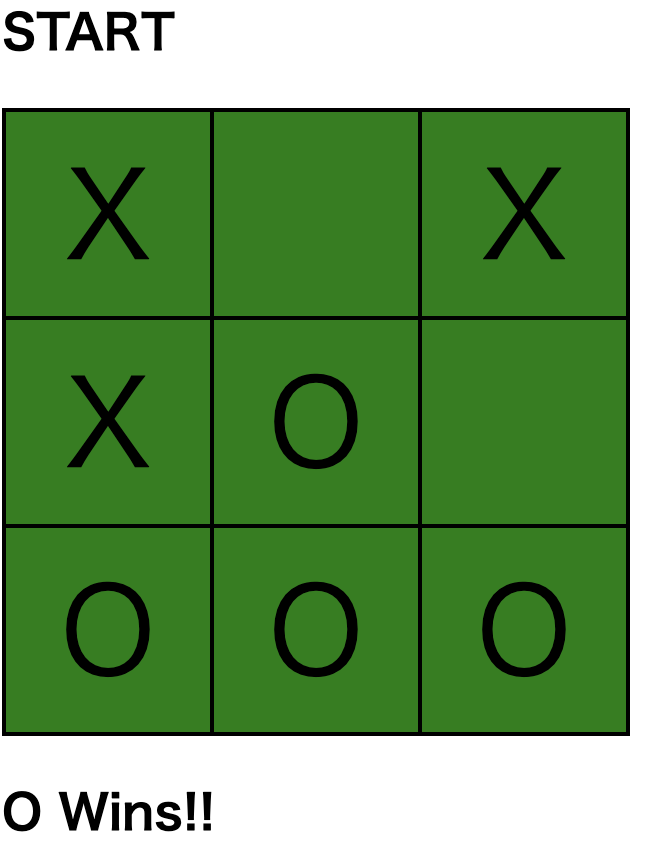
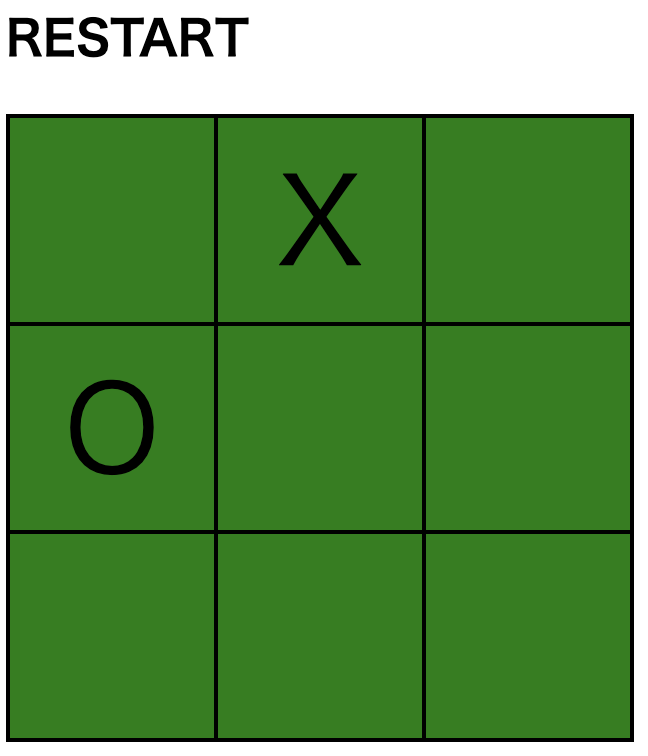
tictactoeをrestart形式に変更

Changed region(s): [[0.0, 0.1217, 0.9877, 1.0], [0.0, 0.0, 0.4012, 0.0913], [0.1852, 0.2738, 0.216, 0.3042]]

diff --git a/app/javascript/tictactoe.js b/app/javascript/tictactoe.js
@@ -1,32 +1,35 @@
 let count = 0;
 let gameInAction = true;
+
 window.addEventListener("load", () => {
   if (checkPath()) {
-    const b = document.getElementById("board");
-    const gameStart = document.getElementById("start-game");
-    gameStart.addEventListener("click", () => {
-      b.innerHTML = "";
-      gameInAction = true;
-      document.getElementById("info").textContent = "";
-      count = 0;
-      for (let i = 0 ; i < 3 ; i++) {
-        const tr = document.createElement("tr");
-        for (let j = 0 ; j < 3 ; j++) {
-          const td = document.createElement("td");
-          td.className = "cell";
-          td.id = "c" + i + j;
-          td.onclick = tick_cell;
-          tr.appendChild(td);
-        }
-        b.appendChild(tr);
-      }
-    })
-  }
+    startGame();
+    const gameRestart = document.getElementById("restart-game");
+    gameRestart.addEventListener("click", startGame);
+  };
 });
 
 function checkPath() {
   const path = location.pathname;
-  if (path === "/tictactoe") {return true};
+  if (path === "/games/tictactoe") {return true};
+}
+function startGame() {
+  const b = document.getElementById("board");
+  b.innerHTML = "";
+  gameInAction = true;
+  document.getElementById("info").textContent = "";
+  count = 0;
+  for (let i = 0 ; i < 3 ; i++) {
+    const tr = document.createElement("tr");
+    for (let j = 0 ; j < 3 ; j++) {
+      const td = document.createElement("td");
+      td.className = "cell";
+      td.id = "c" + i + j;
+      td.onclick = tick_cell;
+      tr.appendChild(td);
+    }
+    b.appendChild(tr);
+  }
 }
 function tick_cell(e) {
   if (e.target.textContent == "" && gameInAction) {

diff --git a/app/controllers/images_controller.rb b/app/controllers/images_controller.rb
@@ -1,4 +1,5 @@
 class ImagesController < ApplicationController
   def index
+    redirect_to root_path unless user_signed_in? && current_user.id == 1
   end
 end
